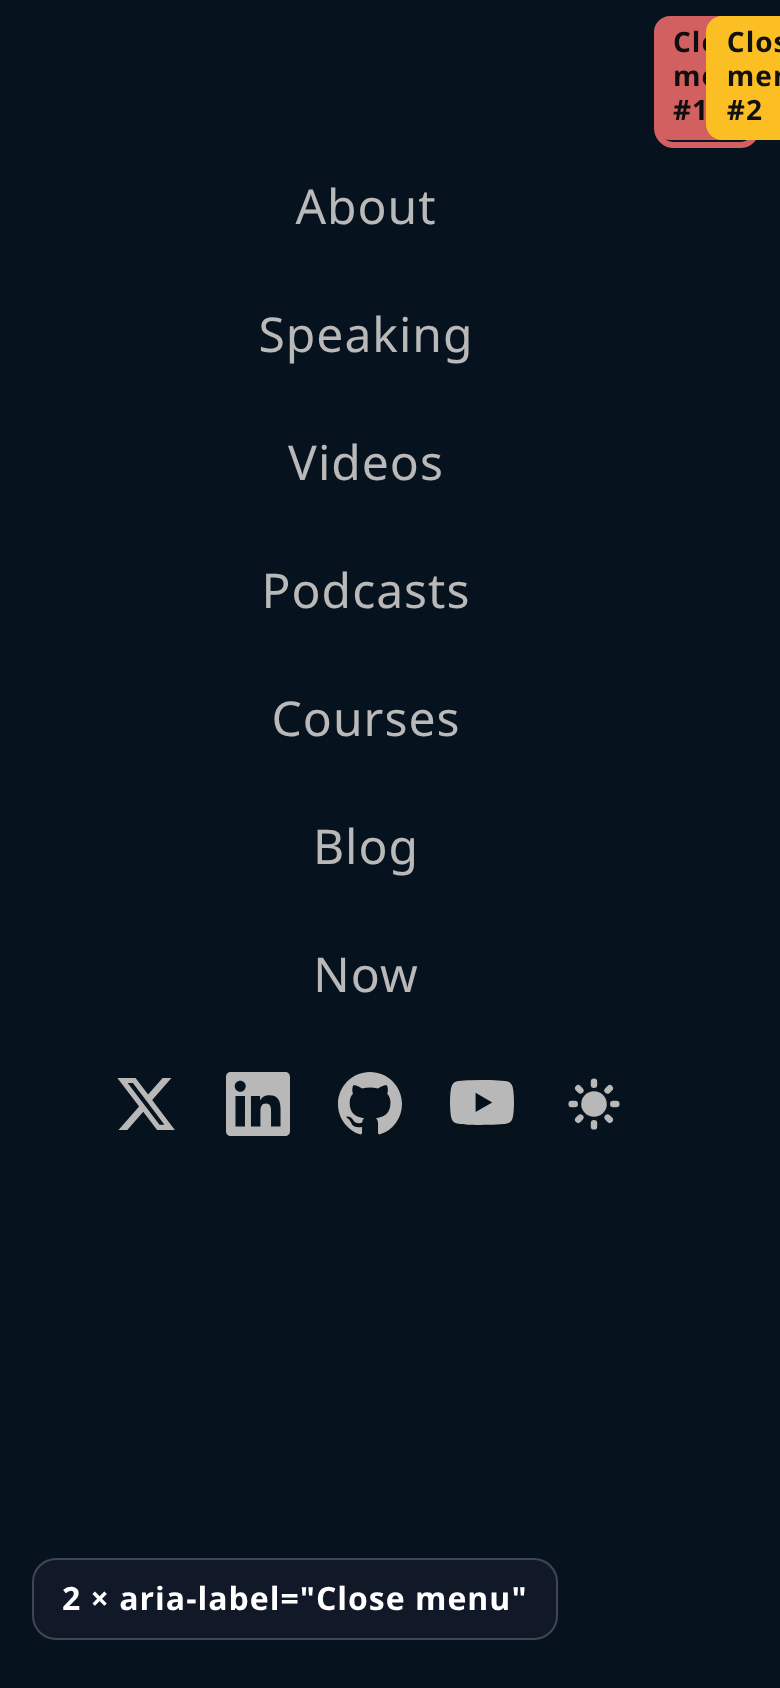
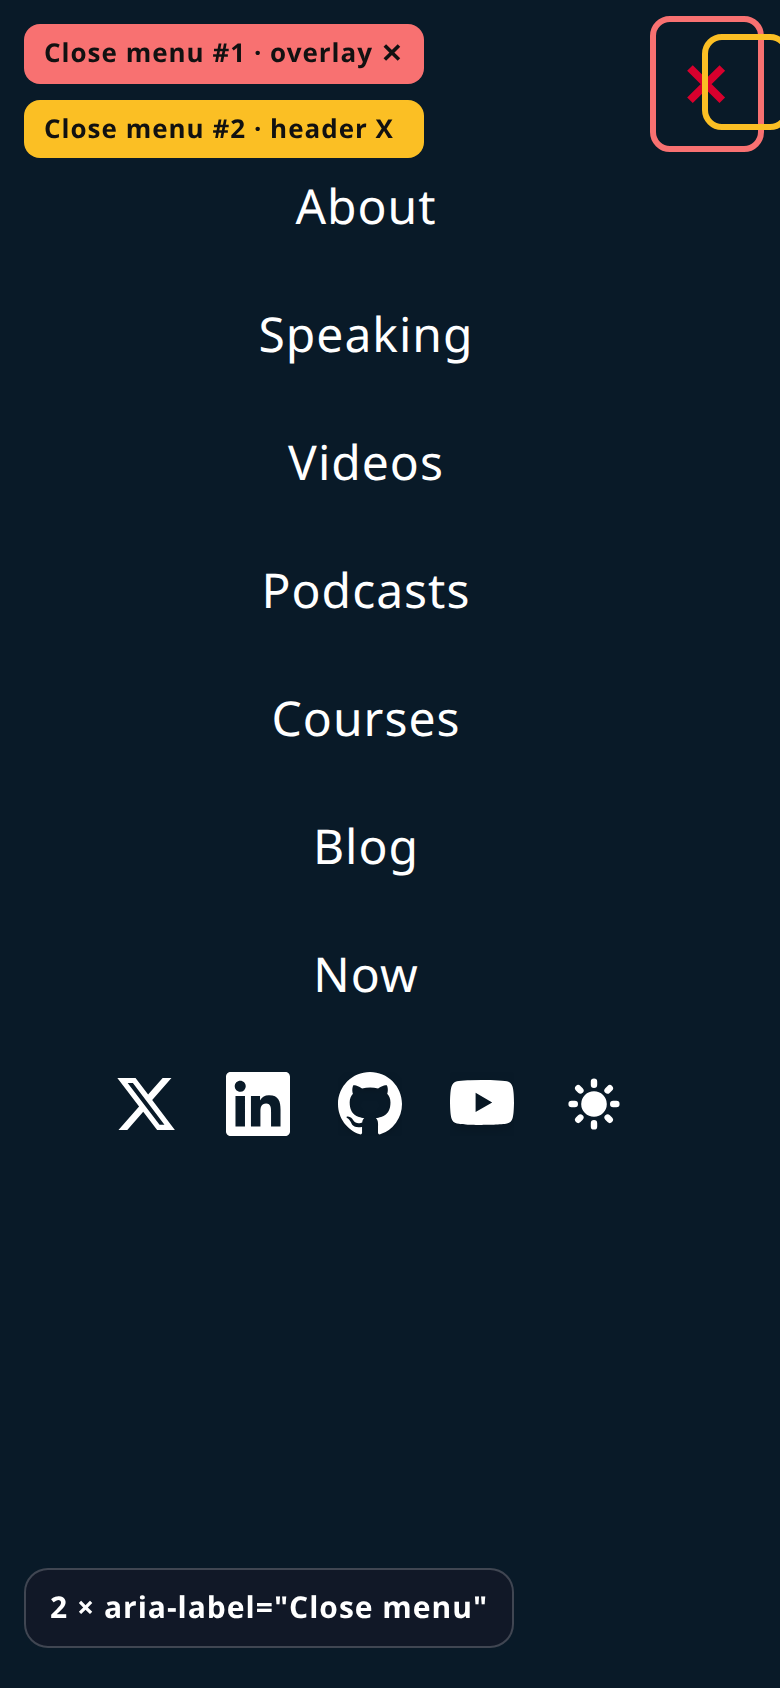
Fix ZurichJS deck bio and 16:9 overflow polish
Replace Zephyr Cloud title with Independent Developer Educator on about,
thanks, and README. Tighten two-skills / image-slide layout for 1280×720.

diff --git a/zurichjs-2026-bug-report-pr-out/style.css b/zurichjs-2026-bug-report-pr-out/style.css
@@ -1406,3 +1406,40 @@ tr.row-success:hover td {
     font-size: 20px;
   }
 }
+
+/* ZurichJS lightning: keep 1280x720 content inside the frame */
+.slidev-layout.devsum-slide .image-slide {
+  min-height: 0 !important;
+  height: 100%;
+  justify-content: flex-start;
+  gap: 10px;
+  padding-top: 4px;
+}
+.slidev-layout.devsum-slide .image-slide .shot-badge {
+  flex: 0 0 auto;
+  max-width: 100%;
+  white-space: nowrap;
+  overflow: hidden;
+  text-overflow: ellipsis;
+}
+.slidev-layout.devsum-slide .image-slide .shot {
+  max-width: min(1080px, 100%) !important;
+  max-height: 560px !important;
+  width: auto;
+  height: auto;
+  object-fit: contain;
+}
+.slidev-layout.devsum-slide .image-slide .shot.phone {
+  max-width: 300px !important;
+  max-height: 560px !important;
+}
+.slidev-layout.devsum-slide .about-slide {
+  min-height: 0;
+  height: 100%;
+}
+.slidev-layout.devsum-slide .diagram-chain {
+  row-gap: 12px;
+}
+.slidev-layout.devsum-slide h2 {
+  overflow-wrap: anywhere;
+}

diff --git a/zurichjs-2026-bug-report-pr-out/slides/04-diagram-two-skills.md b/zurichjs-2026-bug-report-pr-out/slides/04-diagram-two-skills.md
@@ -5,34 +5,34 @@ class: devsum-slide
 
 <div class="slide-inner">
 
-<span class="title-badge" style="margin-bottom:12px">Two skills · PR #576</span>
-<h2>Hunt and fix are separate units of work</h2>
-<p class="lede">Compose them. Don&rsquo;t ask one prompt to do everything.</p>
+<span class="title-badge" style="margin-bottom:8px">Two skills · PR #576</span>
+<h2 style="font-size:40px;margin-bottom:4px">Hunt and fix are separate units of work</h2>
+<p class="lede" style="margin-bottom:0">Compose them. Don&rsquo;t ask one prompt to do everything.</p>
 
-<div class="grid-2" style="margin-top:22px;gap:22px">
+<div class="grid-2" style="margin-top:14px;gap:18px">
 
-  <div class="task-card" style="border-top:3px solid var(--purple);border-left:none">
+  <div class="task-card" style="border-top:3px solid var(--purple);border-left:none;padding:14px 18px">
     <span class="task-id" style="color:#a78bfa">site-bug-hunt</span>
-    <h3 style="font-size:28px;margin-top:6px">Find &amp; classify</h3>
-    <ul class="feature-list" style="font-size:20px;margin-top:10px">
+    <h3 style="font-size:24px;margin-top:4px">Find &amp; classify</h3>
+    <ul class="feature-list" style="font-size:18px;margin-top:6px;gap:8px">
       <li><span class="icon">🧭</span><span>Crawl priority journeys</span></li>
       <li><span class="icon">📸</span><span>Capture evidence</span></li>
       <li><span class="icon">🗂</span><span>Write candidate files</span></li>
       <li><span class="icon">🚪</span><span>File issues only when gates pass</span></li>
     </ul>
-    <p class="small dim" style="margin-top:12px">Looks. Doesn&rsquo;t mutate product code.</p>
+    <p class="small dim" style="margin-top:8px">Looks. Doesn&rsquo;t mutate product code.</p>
   </div>
 
-  <div class="task-card" style="border-top:3px solid var(--accent);border-left:none">
+  <div class="task-card" style="border-top:3px solid var(--accent);border-left:none;padding:14px 18px">
     <span class="task-id" style="color:var(--accent)">site-bugfix</span>
-    <h3 style="font-size:28px;margin-top:6px">Reproduce &amp; ship</h3>
-    <ul class="feature-list" style="font-size:20px;margin-top:10px">
+    <h3 style="font-size:24px;margin-top:4px">Reproduce &amp; ship</h3>
+    <ul class="feature-list" style="font-size:18px;margin-top:6px;gap:8px">
       <li><span class="icon">🔁</span><span>Reproduce first</span></li>
       <li><span class="icon">🔧</span><span>Smallest honest fix</span></li>
       <li><span class="icon">🧪</span><span>Regression test</span></li>
       <li><span class="icon">🔀</span><span>Open PR · Closes #N</span></li>
     </ul>
-    <p class="small dim" style="margin-top:12px">No repro → no PR.</p>
+    <p class="small dim" style="margin-top:8px">No repro → no PR.</p>
   </div>
 
 </div>

diff --git a/zurichjs-2026-bug-report-pr-out/slides/03-diagram-loop.md b/zurichjs-2026-bug-report-pr-out/slides/03-diagram-loop.md
@@ -9,7 +9,7 @@ class: devsum-slide
 <h2>Discover → Issue → Reproduce → Fix → Verify → PR</h2>
 <p class="lede">Same shape every time. Evidence in; reviewable PR out.</p>
 
-<div class="diagram-chain" style="margin-top:28px;flex-wrap:wrap;row-gap:18px">
+<div class="diagram-chain" style="margin-top:18px;flex-wrap:wrap;row-gap:18px">
   <div class="diagram-node purple"><div class="icon">🔎</div><div class="label">Discover</div><div class="sub">crawl + a11y</div></div>
   <div class="diagram-arrow">→</div>
   <div class="diagram-node blue"><div class="icon">📝</div><div class="label">Issue</div><div class="sub">only if gates pass</div></div>
@@ -23,7 +23,7 @@ class: devsum-slide
   <div class="diagram-node" style="border-color:var(--accent)"><div class="icon">🚀</div><div class="label">PR</div><div class="sub">Closes #N</div></div>
 </div>
 
-<div class="task-card" style="border-left:4px solid var(--accent);margin:28px auto 0;max-width:980px">
+<div class="task-card" style="border-left:4px solid var(--accent);margin:18px auto 0;max-width:980px">
   <span class="task-id" style="color:var(--accent)">Lightning takeaway</span>
   <p style="font-size:22px;margin:0">If any step fails honesty, the loop <span class="bold">stops</span> — candidate file or “no PR”, not a fake win.</p>
 </div>

diff --git a/zurichjs-2026-bug-report-pr-out/slides/18-thanks.md b/zurichjs-2026-bug-report-pr-out/slides/18-thanks.md
@@ -3,7 +3,7 @@ layout: default
 class: devsum-slide
 ---
 
-<div class="slide-inner center" style="display:flex;flex-direction:column;justify-content:center;gap:28px;min-height:70vh">
+<div class="slide-inner center" style="display:flex;flex-direction:column;justify-content:center;gap:28px;min-height:0;height:100%">
 
 <div style="margin:auto 0">
 <p class="fade-item" style="font-size:clamp(40px,6vw,76px);font-weight:900;line-height:1.02;margin-bottom:14px">Thank you.</p>
@@ -18,7 +18,7 @@ class: devsum-slide
 
 <div class="fade-item" style="border-top:1px solid var(--code-border);padding-top:16px;width:100%">
   <p style="font-size:clamp(20px,2.2vw,28px);font-weight:800;margin-bottom:2px">Debbie O&rsquo;Brien</p>
-  <p class="dim small" style="margin-bottom:12px">Platform Engineer, Applied AI &middot; Zephyr Cloud · debbie.codes</p>
+  <p class="dim small" style="margin-bottom:12px">Independent Developer Educator · debbie.codes</p>
 
   <div style="display:flex;gap:10px;flex-wrap:wrap;justify-content:center;max-width:1000px;margin:0 auto">
     <a href="https://github.com/debs-obrien/debbie.codes/pull/621" target="_blank" rel="noreferrer" class="thank-link" style="text-decoration:none">PR #621 hunt</a>

diff --git a/zurichjs-2026-bug-report-pr-out/slides/01-about.md b/zurichjs-2026-bug-report-pr-out/slides/01-about.md
@@ -11,7 +11,7 @@ class: devsum-slide
 <div class="about-text">
 <span class="title-badge">Hi, I'm</span>
 <h1>Debbie O&rsquo;Brien</h1>
-<p class="about-role">Platform Engineer, Applied AI &middot; Zephyr Cloud</p>
+<p class="about-role">Independent Developer Educator</p>
 <ul class="feature-list about-list">
 <li><span class="icon">🧪</span><span>Days in <span class="bold">testing &amp; agents</span> with Playwright</span></li>
 <li><span class="icon">🌙</span><span>Building loops that hunt bugs <span class="bold">while I sleep</span></span></li>
@@ -30,7 +30,7 @@ class: devsum-slide
 .about-slide {
   display: flex;
   align-items: center;
-  min-height: 74vh;
+  min-height: 0; height: 100%;
 }
 .about-grid {
   display: grid;

diff --git a/zurichjs-2026-bug-report-pr-out/slides/10-image-before-two-close.md b/zurichjs-2026-bug-report-pr-out/slides/10-image-before-two-close.md
@@ -17,7 +17,7 @@ class: devsum-slide hero
   align-items: center;
   justify-content: center;
   gap: 12px;
-  min-height: 74vh;
+  min-height: 0; height: 100%;
 }
 .shot-badge {
   display: inline-flex;
@@ -34,7 +34,7 @@ class: devsum-slide hero
 .shot.phone {
   width: auto;
   max-width: 340px;
-  max-height: 640px;
+  max-height: 540px;
   object-fit: contain;
   border-radius: 18px;
   border: 1px solid var(--code-border);

diff --git a/zurichjs-2026-bug-report-pr-out/slides/13-image-after-one-close.md b/zurichjs-2026-bug-report-pr-out/slides/13-image-after-one-close.md
@@ -17,7 +17,7 @@ class: devsum-slide hero
   align-items: center;
   justify-content: center;
   gap: 12px;
-  min-height: 74vh;
+  min-height: 0; height: 100%;
 }
 .shot-badge {
   display: inline-flex;
@@ -34,7 +34,7 @@ class: devsum-slide hero
 .shot.phone {
   width: auto;
   max-width: 340px;
-  max-height: 640px;
+  max-height: 540px;
   object-fit: contain;
   border-radius: 18px;
   border: 1px solid var(--code-border);

diff --git a/zurichjs-2026-bug-report-pr-out/slides/07-image-hunt-pr-621.md b/zurichjs-2026-bug-report-pr-out/slides/07-image-hunt-pr-621.md
@@ -17,7 +17,7 @@ class: devsum-slide hero
   align-items: center;
   justify-content: center;
   gap: 12px;
-  min-height: 74vh;
+  min-height: 0; height: 100%;
 }
 .shot-badge {
   display: inline-flex;
@@ -35,7 +35,7 @@ class: devsum-slide hero
 .shot {
   width: 100%;
   max-width: 1080px;
-  max-height: 620px;
+  max-height: 540px;
   object-fit: contain;
   border-radius: 12px;
   border: 1px solid var(--code-border);

diff --git a/zurichjs-2026-bug-report-pr-out/slides/08-image-candidate-file.md b/zurichjs-2026-bug-report-pr-out/slides/08-image-candidate-file.md
@@ -17,7 +17,7 @@ class: devsum-slide hero
   align-items: center;
   justify-content: center;
   gap: 12px;
-  min-height: 74vh;
+  min-height: 0; height: 100%;
 }
 .shot-badge {
   display: inline-flex;
@@ -32,7 +32,7 @@ class: devsum-slide hero
 .shot {
   width: 100%;
   max-width: 1080px;
-  max-height: 620px;
+  max-height: 540px;
   object-fit: contain;
   border-radius: 12px;
   border: 1px solid var(--code-border);

diff --git a/zurichjs-2026-bug-report-pr-out/slides/09-image-issue-622.md b/zurichjs-2026-bug-report-pr-out/slides/09-image-issue-622.md
@@ -17,7 +17,7 @@ class: devsum-slide hero
   align-items: center;
   justify-content: center;
   gap: 12px;
-  min-height: 74vh;
+  min-height: 0; height: 100%;
 }
 .shot-badge {
   display: inline-flex;
@@ -32,7 +32,7 @@ class: devsum-slide hero
 .shot {
   width: 100%;
   max-width: 1080px;
-  max-height: 620px;
+  max-height: 540px;
   object-fit: contain;
   border-radius: 12px;
   border: 1px solid var(--code-border);

diff --git a/zurichjs-2026-bug-report-pr-out/slides/12-image-fix-pr-623.md b/zurichjs-2026-bug-report-pr-out/slides/12-image-fix-pr-623.md
@@ -17,7 +17,7 @@ class: devsum-slide hero
   align-items: center;
   justify-content: center;
   gap: 12px;
-  min-height: 74vh;
+  min-height: 0; height: 100%;
 }
 .shot-badge {
   display: inline-flex;
@@ -32,7 +32,7 @@ class: devsum-slide hero
 .shot {
   width: 100%;
   max-width: 1080px;
-  max-height: 620px;
+  max-height: 540px;
   object-fit: contain;
   border-radius: 12px;
   border: 1px solid var(--code-border);

diff --git a/zurichjs-2026-bug-report-pr-out/slides/14-image-thetopbar-diff.md b/zurichjs-2026-bug-report-pr-out/slides/14-image-thetopbar-diff.md
@@ -17,7 +17,7 @@ class: devsum-slide hero
   align-items: center;
   justify-content: center;
   gap: 12px;
-  min-height: 74vh;
+  min-height: 0; height: 100%;
 }
 .shot-badge {
   display: inline-flex;
@@ -32,7 +32,7 @@ class: devsum-slide hero
 .shot {
   width: 100%;
   max-width: 1080px;
-  max-height: 620px;
+  max-height: 540px;
   object-fit: contain;
   border-radius: 12px;
   border: 1px solid var(--code-border);
